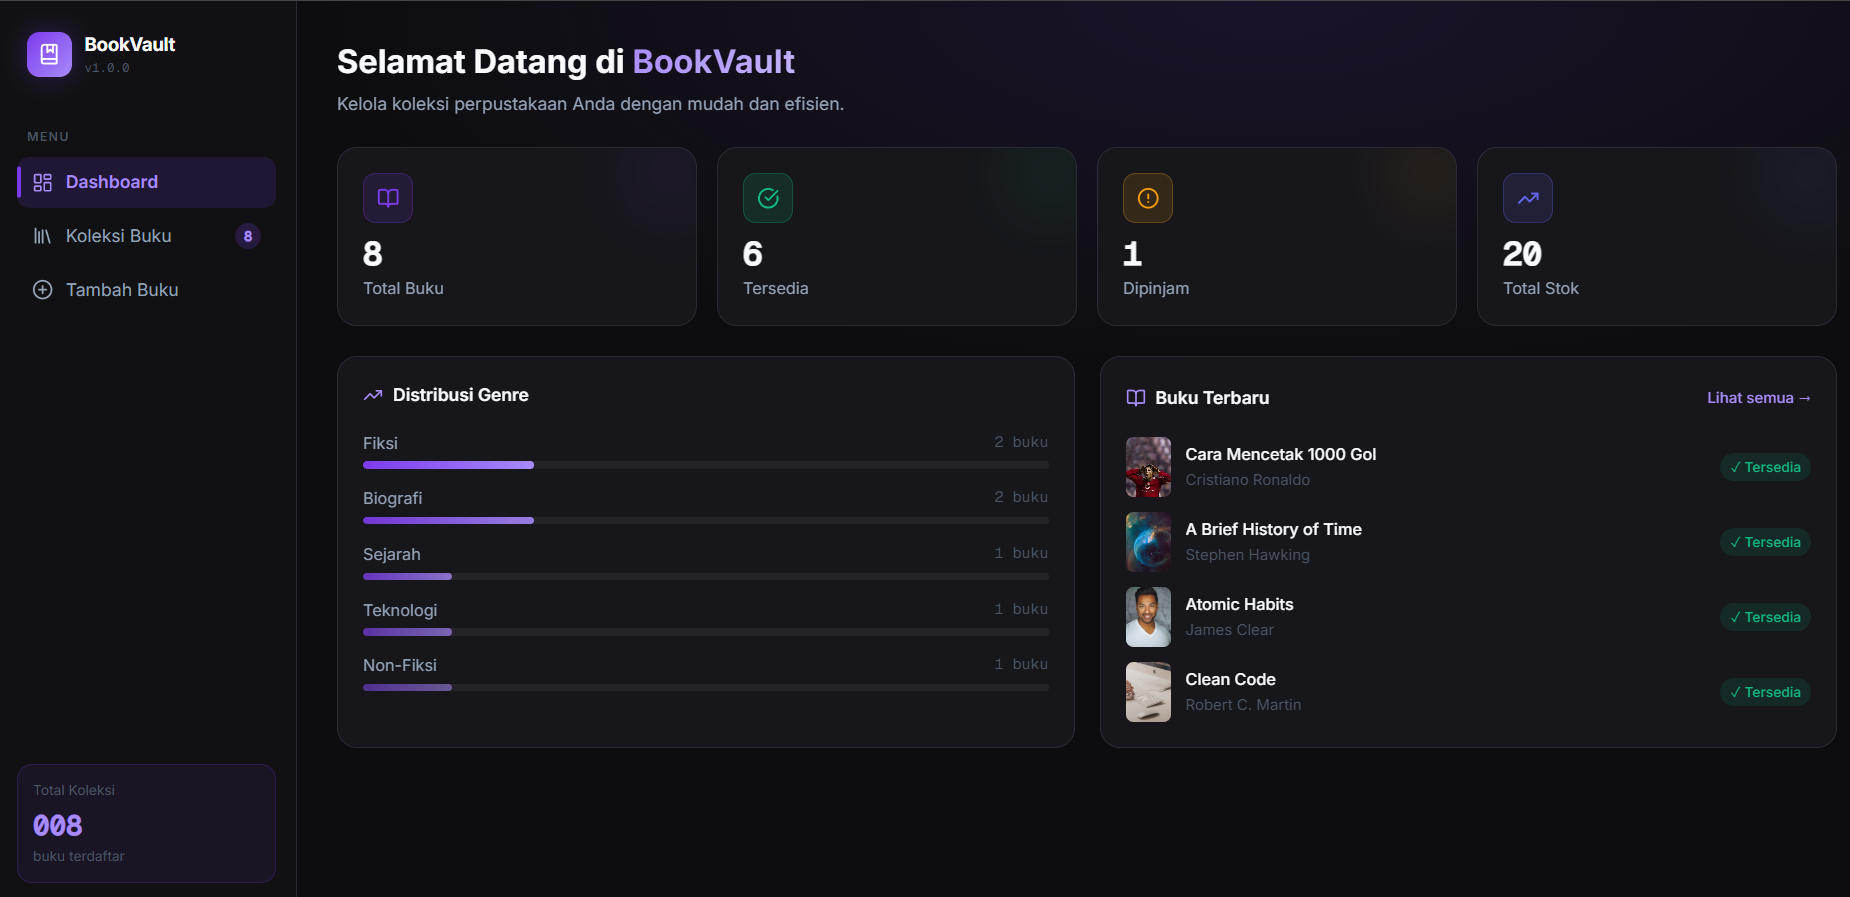
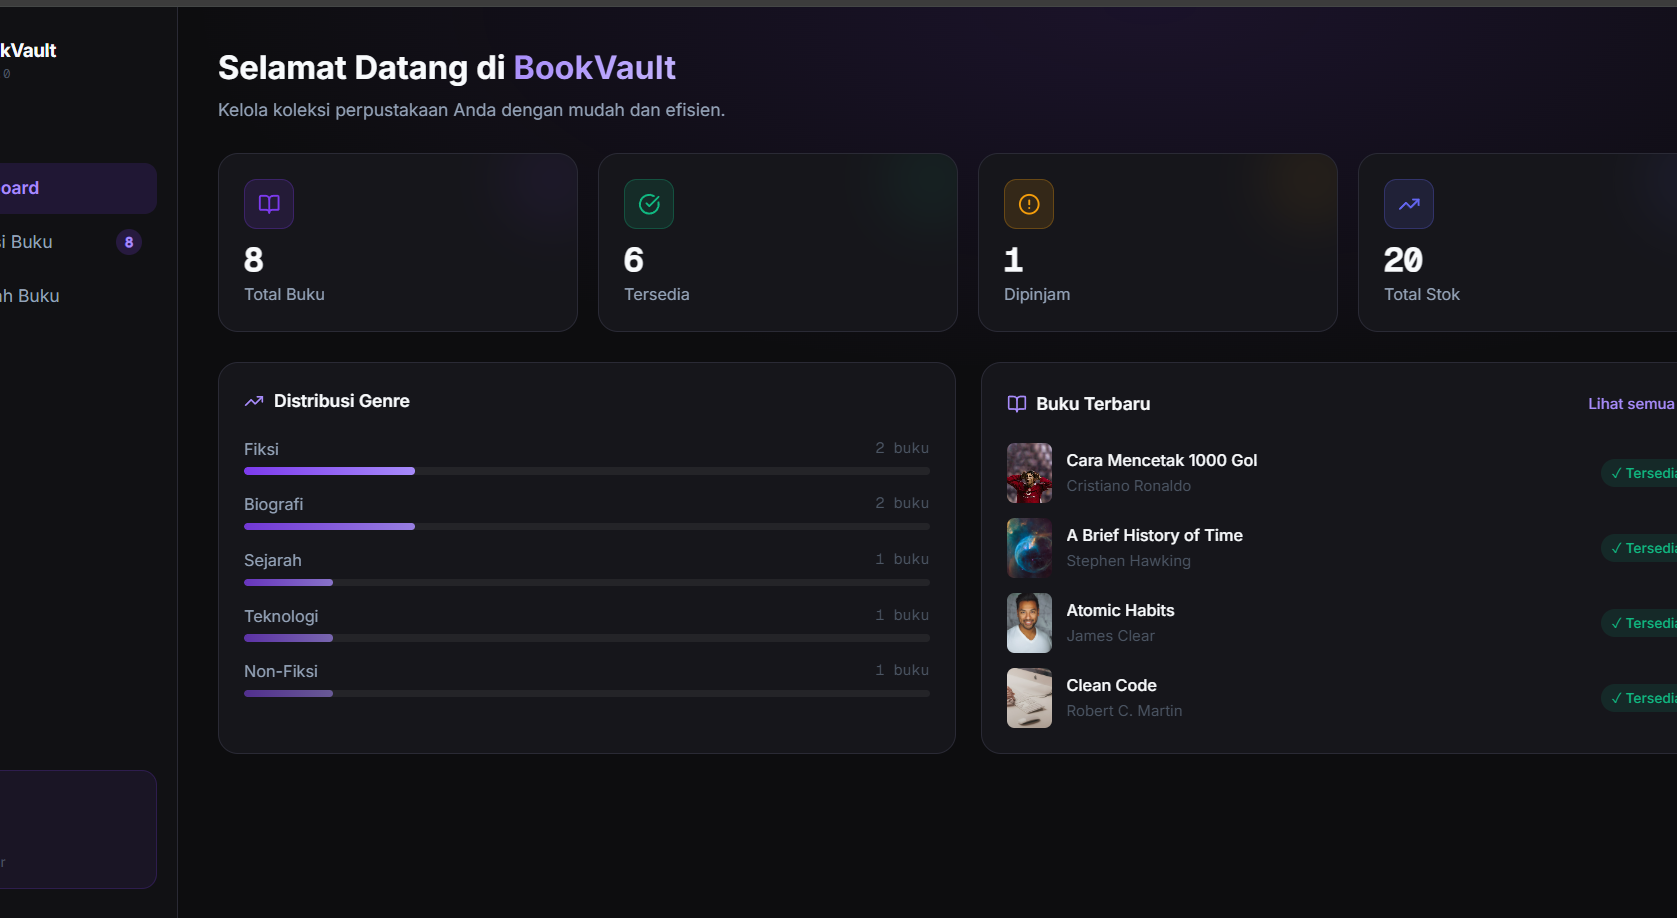
fix : BookVault pict

diff --git a/src/data/portfolio.ts b/src/data/portfolio.ts
@@ -149,60 +149,7 @@ export const projects = [
     githubUrl: "https://github.com/aditia-prtm/tic-tac-toe",
     featured: false,
   },
-  // {
-  //   id: 2,
-  //   title: "Aura CMS",
-  //   subtitle: "Headless content platform",
-  //   description:
-  //     "A developer-first headless CMS with a visual block editor, real-time collaboration, and a GraphQL API. Deployed on 1,200+ marketing sites generating $4M ARR.",
-  //   longDescription:
-  //     "Aura was built to solve the frustration of inflexible CMS tooling. The block editor uses a custom JSON schema that compiles to optimised HTML, keeping Lighthouse scores above 95 across all client sites. Real-time collaboration is powered by CRDTs (Yjs), enabling conflict-free multi-author editing.\n\nThe platform includes a visual workflow builder for content approval, a media CDN with automatic WebP conversion, and a plugin marketplace.",
-  //   tags: ["Next.js", "Yjs", "GraphQL", "Postgres", "Node.js", "AWS"],
-  //   category: "SaaS",
-  //   color: "#06b6d4",
-  //   gradient: "from-cyan-500 to-blue-500",
-  //   image: null,
-  //   liveUrl: "#",
-  //   githubUrl: "#",
-  //   featured: true,
-  //   metrics: ["1,200+ sites", "$4M ARR", ">95 Lighthouse"],
-  // },
-  // {
-  //   id: 3,
-  //   title: "Luminary UI",
-  //   subtitle: "Open-source design system",
-  //   description:
-  //     "A fully accessible, themeable React component library with 80+ components, Storybook documentation, and automated visual regression testing via Chromatic.",
-  //   longDescription:
-  //     "Luminary began as an internal design system and was open-sourced after the team realised other companies faced the same accessibility gaps in popular libraries. Every component meets WCAG 2.1 AA, is keyboard navigable, and is tested with VoiceOver and NVDA.\n\nThe token system is powered by CSS custom properties and supports unlimited themes with a single JSON file. CI runs visual regression checks on every PR, catching pixel-level regressions before they reach production.",
-  //   tags: ["React", "TypeScript", "Storybook", "Radix UI", "CSS Variables"],
-  //   category: "Open Source",
-  //   color: "#10b981",
-  //   gradient: "from-emerald-500 to-cyan-500",
-  //   image: null,
-  //   liveUrl: "#",
-  //   githubUrl: "#",
-  //   featured: false,
-  //   metrics: ["80+ components", "WCAG 2.1 AA", "4.2k ⭐ GitHub"],
-  // },
-  // {
-  //   id: 4,
-  //   title: "Chronicle",
-  //   subtitle: "AI-powered writing assistant",
-  //   description:
-  //     "A writing tool that uses Claude to provide contextual suggestions, tone analysis, and SEO optimisation in real time — integrated directly into the editor.",
-  //   longDescription:
-  //     "Chronicle integrates LLM capabilities directly into a ProseMirror editor. The AI sidebar analyses the current document context and provides structured suggestions without interrupting writing flow. A background worker handles embedding generation for semantic search across the user's document library.\n\nBuilt with the Vercel AI SDK and streamed responses to keep suggestion latency under 300ms on median hardware.",
-  //   tags: ["Next.js", "Anthropic API", "ProseMirror", "Postgres", "Vercel"],
-  //   category: "AI / Productivity",
-  //   color: "#f59e0b",
-  //   gradient: "from-amber-500 to-orange-500",
-  //   image: null,
-  //   liveUrl: "#",
-  //   githubUrl: "#",
-  //   featured: false,
-  //   metrics: ["<300ms latency", "Semantic search", "Streaming UI"],
-  // },
+  
 ];
 
 // ─── Experience ───────────────────────────────────────────────────
